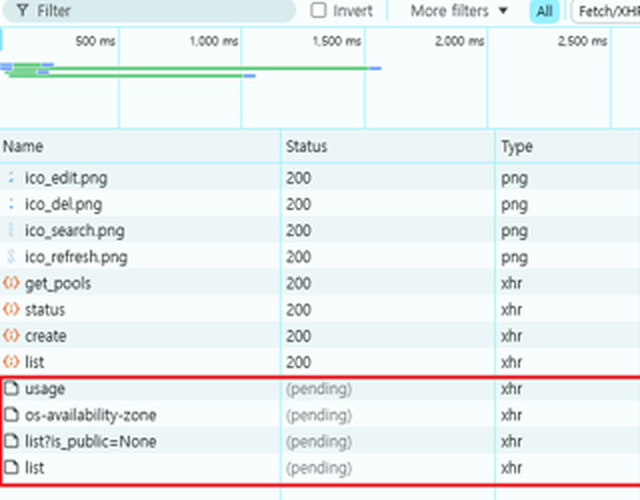
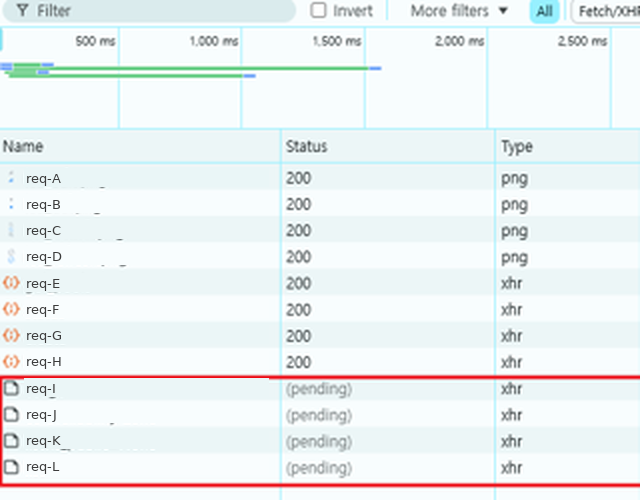
fix: stop claiming a growing queue and mask the request names

diff --git a/writing/slow-screens-6-polling-pileup.ko.html b/writing/slow-screens-6-polling-pileup.ko.html
@@ -3,7 +3,7 @@
 <head>
   <meta charset="UTF-8" />
   <meta name="viewport" content="width=device-width, initial-scale=1.0" />
-  <title>10초 걸리는 목록을 5초마다 다시 불렀습니다 | Kwanghun Lee</title>
+  <title>볼륨 생성 창이 안 열린 이유는 2개였습니다 | Kwanghun Lee</title>
   <link rel="preconnect" href="https://fonts.googleapis.com">
   <link rel="preconnect" href="https://fonts.gstatic.com" crossorigin>
   <link href="https://fonts.googleapis.com/css2?family=Inter:wght@400;500;600;700;800;900&family=Newsreader:opsz,wght@6..72,400;6..72,500;6..72,600;6..72,700&family=Great+Vibes&display=swap" rel="stylesheet">
@@ -16,7 +16,7 @@
   <!-- og:start -->
   <meta property="og:type" content="article" />
   <meta property="og:site_name" content="Kwanghun Lee" />
-  <meta property="og:title" content="10초 걸리는 목록을 5초마다 다시 불렀습니다 | Kwanghun Lee" />
+  <meta property="og:title" content="볼륨 생성 창이 안 열린 이유는 2개였습니다 | Kwanghun Lee" />
   <meta property="og:description" content="볼륨 생성 버튼을 눌러도 창이 안 열리고 로딩만 돌았습니다. 개발자 도구에는 요청 4건이 pending으로 멈춰 있었습니다. 목록 조회가 10초 넘게 걸리는데 화면은 5초마다 다시 부르고 있었고, 창이 열려 있는 동안에도 멈추지 않았습니다." />
   <meta property="og:image" content="https://lkhun9311.github.io/assets/og-cover.png" />
   <meta property="og:image:width" content="1200" />
@@ -26,7 +26,7 @@
   <meta property="og:locale:alternate" content="en_US" />
   <meta property="og:locale:alternate" content="ja_JP" />
   <meta name="twitter:card" content="summary_large_image" />
-  <meta name="twitter:title" content="10초 걸리는 목록을 5초마다 다시 불렀습니다 | Kwanghun Lee" />
+  <meta name="twitter:title" content="볼륨 생성 창이 안 열린 이유는 2개였습니다 | Kwanghun Lee" />
   <meta name="twitter:description" content="볼륨 생성 버튼을 눌러도 창이 안 열리고 로딩만 돌았습니다. 개발자 도구에는 요청 4건이 pending으로 멈춰 있었습니다. 목록 조회가 10초 넘게 걸리는데 화면은 5초마다 다시 부르고 있었고, 창이 열려 있는 동안에도 멈추지 않았습니다." />
   <meta name="twitter:image" content="https://lkhun9311.github.io/assets/og-cover.png" />
   <meta name="description" content="볼륨 생성 버튼을 눌러도 창이 안 열리고 로딩만 돌았습니다. 개발자 도구에는 요청 4건이 pending으로 멈춰 있었습니다. 목록 조회가 10초 넘게 걸리는데 화면은 5초마다 다시 부르고 있었고, 창이 열려 있는 동안에도 멈추지 않았습니다." />
@@ -72,7 +72,7 @@
         <div class="article-meta"><span class="source-tag company notranslate">회사 업무</span></div>
       </div>
               <section class="page-hero">
-          <h1>10초 걸리는 목록을 5초마다 다시 불렀습니다<br><span class="h1-sub">창이 열려 있는 동안에도 갱신이 계속 돌아 요청이 쌓였습니다. 사내 cloud 관리 console · 느린 화면 연작 ⑥</span></h1>
+          <h1>볼륨 생성 창이 안 열린 이유는 2개였습니다<br><span class="h1-sub">목록 조회가 10초 넘게 걸리는데 화면은 5초마다 다시 불렀습니다. 사내 cloud 관리 console · 느린 화면 연작 ⑥</span></h1>
           <p class="article-date">2026년 9월</p>
         </section>
 
@@ -122,6 +122,9 @@
           <li>브라우저 개발자 도구에 <strong>요청 4건이 <code>(pending)</code>으로 멈춰</strong> 있었습니다.</li>
           <li>고친 것은 <strong>창이 열려 있는 동안 갱신을 멈추는 것</strong>과
           <strong>고른 것만 그때 받아 오는 것</strong>입니다.</li>
+          <li>⚠ <strong>다만 「요청이 쌓였다」까지는 확인하지 못했습니다.</strong> 갈무리가 보여 주는 것은
+          그 시점에 <strong>끝나지 않은 요청이 4건</strong>이라는 것까지이고 창이 열리는 시간도
+          전후로 재지 않았습니다.</li>
           <li>그리고 <strong>이 「5초」가 backend 결정의 근거가 됐습니다.</strong>
           <a href="slow-screens-1-volume-list.ko.html">①편</a>에 나온 <code>refreshAfterWrite(5s)</code>의
           그 5초입니다.</li>
@@ -149,29 +152,34 @@
         <p>개발자 도구를 열어 보면 답이 그대로 있습니다.</p>
 
         <figure class="diagram">
-          <img src="../assets/figures/modal-pending-requests.png" alt="브라우저 개발자 도구의 네트워크 탭. 위쪽 8건은 상태 200으로 끝났고 아래쪽 4건은 usage, os-availability-zone, list?is_public=None, list로 상태가 모두 pending입니다." loading="lazy" width="640" height="500">
-          <figcaption>위쪽은 끝난 요청이고 <strong>아래 빨간 칸 4건이 <code>(pending)</code></strong>입니다.
-          창을 여는 데 필요한 요청들이 <strong>아직 답을 못 받고 있습니다.</strong>
-          제품 화면이 찍힌 오른쪽은 잘라 냈습니다.</figcaption>
+          <img src="../assets/figures/modal-pending-requests.png" alt="브라우저 개발자 도구의 네트워크 탭. 위쪽 8건은 상태 200으로 끝났고 아래쪽 4건은 상태가 pending입니다. 요청 이름은 전부 가렸습니다." loading="lazy" width="640" height="500">
+          <figcaption>갈무리 시점에 <strong>끝나지 않은 요청이 4건</strong> 보입니다(빨간 칸).
+          위쪽 8건은 200으로 끝났습니다. ⚠ 요청 이름은 사내 API 표면이라 <code>req-A</code>처럼 가렸고,
+          제품 화면이 찍힌 오른쪽은 잘라 냈습니다. 상태·종류·시각은 갈무리 그대로입니다.</figcaption>
         </figure>
 
-        <p><code>(pending)</code>은 <strong>보내 놓고 답을 기다리는 중</strong>이라는 뜻입니다.
-        창이 안 열린 것이 아니라 <strong>창이 열리기를 기다리며 필요한 것을 받는 중</strong>이었고,
-        그게 안 끝나고 있었습니다.</p>
+        <p><code>(pending)</code>은 <strong>아직 끝나지 않았다</strong>는 뜻입니다. 어디서 기다리는 중인지는
+        이 화면에 안 나옵니다. 브라우저 안에서 순서를 기다리는 중일 수도, 보내 놓고 답을 기다리는 중일
+        수도 있습니다.</p>
 
-        <p>⚠ <strong>이 갈무리가 보여 주는 것은 거기까지입니다.</strong> 멈춘 4건의 이름을 보면
-        쿼터 사용량·가용 영역·볼륨 타입 목록처럼 <strong>창이 필요로 하는 것들</strong>이고,
-        어느 것이 주기적 갱신이고 어느 것이 창의 요청인지 <strong>이 화면만으로는 가르지 못합니다.</strong>
-        아래에 적는 두 원인은 <strong>이 갈무리 하나가 아니라 코드와 사내 기록에서</strong> 나온 것입니다.</p>
+        <p>즉 <strong>클릭은 처리됐습니다.</strong> 창은 뜨기 시작했고 뜨는 데 필요한 것을 받는 중에
+        멈춰 있었습니다.</p>
+
+        <p>⚠ <strong>이 갈무리가 보여 주는 것은 거기까지입니다.</strong> 어느 것이 주기적 갱신이고 어느 것이
+        창의 요청인지, 각각이 언제 시작해 어디서 얼마를 기다렸는지는 <strong>이 화면만으로는 가르지
+        못합니다.</strong> 아래에 적는 두 원인은 <strong>이 갈무리 하나가 아니라 코드와 사내 기록에서</strong>
+        나온 것입니다.</p>
 
         <h2 id="원인-1">원인 ①: 안 쓸 것까지 미리 다 받아 왔습니다<a class="anchor" href="#원인-1" aria-label="이 절로 가는 링크">#</a></h2>
 
-        <p>버튼을 누르는 순간 화면이 받아 오기 시작한 것이 <strong>4가지</strong>였습니다.
-        볼륨 목록, 볼륨 스냅샷 목록, 볼륨 타입 목록, 이미지 목록.</p>
+        <p>창을 여는 과정에서 받아 오는 것이 <strong>4가지</strong>였습니다.
+        볼륨 목록, 볼륨 스냅샷 목록, 이미지 목록, 그리고 볼륨 타입 목록.
+        ⚠ 앞의 셋은 <strong>차례로</strong> 불렀고 볼륨 타입은 <strong>따로</strong> 불렀습니다.
+        한꺼번에 나란히 나간 것이 아닙니다.</p>
 
         <p>그런데 <strong>창을 여는 데 그 4가지가 다 필요하지는 않습니다.</strong>
         볼륨 소스로 「볼륨」을 고르면 볼륨 목록이 필요하고 「이미지」를 고르면 이미지 목록이 필요합니다.
-        <strong>고르기 전에는 아무것도 필요 없습니다.</strong></p>
+        <strong>고르기 전에는 볼륨·스냅샷·이미지 목록 중 어느 것도 필요하지 않습니다.</strong></p>
 
         <figure class="diagram">
           <div class="diagram-scroll" tabindex="0" role="region" aria-label="스크롤 가능한 도해">
@@ -212,7 +220,7 @@
               <text x="471" y="157" font-size="12" fill="#18121d" text-anchor="middle">소스를 고름</text>
               <path d="M536 153 H 570" fill="none" stroke="#4f5bd5" stroke-width="2" marker-end="url(#of-arB)"/>
               <rect x="578" y="140" width="134" height="26" rx="4" fill="none" stroke="#4f5bd5" stroke-width="2"/>
-              <text x="645" y="157" font-size="12" fill="#4f5bd5" font-weight="700" text-anchor="middle">그 한 가지만</text>
+              <text x="645" y="157" font-size="12" fill="#4f5bd5" font-weight="700" text-anchor="middle">고른 것에 필요한 것만</text>
               <defs>
                 <marker id="of-arA" viewBox="0 0 10 10" refX="9" refY="5" markerWidth="6" markerHeight="6" orient="auto-start-reverse">
                   <path d="M0 0 L10 5 L0 10 z" fill="#d62976"/>
@@ -238,7 +246,8 @@
         그런데 그 갱신이 <strong>창이 열려 있는 동안에도 그대로 돌았습니다.</strong>
         멈추라고 한 곳이 없었으니까요.</p>
 
-        <p>그리고 그 전체 목록 조회는 <strong>10초 넘게</strong> 걸렸습니다.</p>
+        <p>그리고 그 전체 목록 조회는 <strong>10초 넘게</strong> 걸렸습니다.
+        그러면 앞의 것이 안 끝났는데 다음 것이 나갑니다.</p>
 
         <figure class="diagram">
           <div class="diagram-scroll" tabindex="0" role="region" aria-label="스크롤 가능한 도해">
@@ -246,8 +255,7 @@
               <title id="poll-t">10초 걸리는 요청을 5초마다 보낼 때 쌓이는 모양</title>
               <desc id="poll-d">가로축이 시간입니다. 위 카드는 응답이 5초 안에 끝나는 경우로, 다음 요청이
               나갈 때 앞의 것이 이미 끝나 있어 한 번에 하나만 떠 있습니다. 아래 카드는 응답이 10초 넘게
-              걸리는 경우로, 5초마다 새 요청이 나가는 동안 앞의 것이 아직 안 끝나 겹치는 구간이 계속
-              늘어납니다.</desc>
+              걸리는 경우로, 5초마다 새 요청이 나가는 동안 앞의 것이 아직 안 끝나 두 건이 겹쳐 있습니다.</desc>
 
               <rect x="0" y="0" width="720" height="88" rx="10" fill="rgba(79,91,213,0.06)"/>
               <text x="10" y="22" font-size="12" fill="#4f5bd5" font-weight="700">응답이 5초 안에 끝날 때</text>
@@ -266,18 +274,35 @@
               <path d="M148 128 V 190" stroke="#d62976" stroke-width="1" stroke-dasharray="3 3"/>
               <path d="M286 128 V 190" stroke="#d62976" stroke-width="1" stroke-dasharray="3 3"/>
               <path d="M424 128 V 190" stroke="#d62976" stroke-width="1" stroke-dasharray="3 3"/>
-              <text x="600" y="128" font-size="11.5" fill="#d62976" font-weight="700">겹침 · 계속 쌓임</text>
+              <text x="600" y="128" font-size="11.5" fill="#d62976" font-weight="700">겹침 · 동시에 2건</text>
             </svg>
           </div>
           <figcaption>가로가 시간이고 막대 하나가 요청 1건이 살아 있는 구간입니다.
           점선은 5초마다 새 요청이 나가는 시점입니다. 아래쪽에서는 막대가 겹칩니다.</figcaption>
         </figure>
 
-        <blockquote><p><strong>10초 걸리는 것을 5초마다 부르면 줄이 줄지 않습니다.</strong>
-        보내는 속도가 끝나는 속도보다 빠르면 남는 요청이 계속 늘어납니다.</p></blockquote>
+        <blockquote><p><strong>10초 걸리는 것을 5초마다 부르면 겹칩니다.</strong>
+        앞의 것이 안 끝났는데 다음 것이 나가니, 같은 요청이 동시에 두 건씩 떠 있게 됩니다.</p></blockquote>
 
-        <p>여기에 <strong>원인 ①이 얹힙니다.</strong> 창을 열려고 4가지를 한꺼번에 받아 오는데,
-        그 요청들이 이미 밀려 있는 줄 뒤에 섭니다. 그래서 창이 안 열립니다.</p>
+        <p>⚠ <strong>여기서 한 발 더 나가면 근거가 없어집니다.</strong> 「요청이 끝없이 쌓인다」가
+        되려면 2가지가 더 있어야 하는데 <strong>둘 다 이 기록으로 확인되지 않습니다.</strong></p>
+
+        <ul>
+          <li><strong>갱신이 고정 시계로 돌아야 합니다.</strong> 앞의 것이 끝난 뒤에 5초를 재는 구현이거나
+          아직 도는 중이면 건너뛰는 구현이면 겹치지 않습니다. 기록에 남은 것은 <code>usePolling</code>을
+          <strong>부르는 쪽</strong>이고 그 안이 어떻게 생겼는지는 없습니다.</li>
+          <li><strong>겹친 요청이 어딘가에서 한 줄로 서야 합니다.</strong> 그냥 나란히 나가면 동시에 떠 있는
+          수가 2건 근처에서 멈추고 계속 늘지 않습니다. 브라우저가 같은 서버로 여는 연결 수 상한이
+          그 자리일 수 있는데 <strong>확인하지 않았습니다.</strong></li>
+        </ul>
+
+        <p>그러니 이 글이 말할 수 있는 것은 <strong>겹친다</strong>까지입니다.
+        사내 기록은 이것을 「누적」이라고 적었고 저도 그때 그렇게 읽었습니다.
+        <strong>지금 다시 보면 그 낱말은 확인한 것보다 셉니다.</strong></p>
+
+        <p>그리고 같은 시점에 <strong>창을 열기 위한 요청도 함께 나갑니다.</strong> 원인 ①입니다.
+        ⚠ 그 요청들이 갱신 요청 뒤에서 기다렸다는 <strong>직접 증거는 없습니다.</strong>
+        갈무리에는 각 요청이 언제 시작했는지도, 어디서 얼마를 기다렸는지도 안 나옵니다.</p>
 
         <p>⚠ <strong>브라우저가 같은 서버로 동시에 열 수 있는 연결 수에도 상한이 있습니다.</strong>
         줄이 길어지면 그 상한에도 걸릴 수 있는데 <strong>이 글은 그것까지 확인하지 않았습니다.</strong>
@@ -297,6 +322,10 @@ usePolling({
   pollingCondition: isLoadingDataExist &amp;&amp; !isAnyDialogOpen,
 });</code></pre>
 
+        <p>⚠ 이 조건이 막는 것은 <strong>다음 갱신이 나가는 것</strong>입니다. 이미 나가 있는 요청을
+        취소하지는 않습니다. 그리고 <code>openDialogs</code>가 클릭 직후에 참이 되는지, 데이터를 다 받은
+        뒤에 참이 되는지는 <strong>부르는 쪽 코드만으로는 알 수 없습니다.</strong></p>
+
         <p><strong>둘. 미리 받지 않고 고를 때 받습니다.</strong> 볼륨 소스에서 「스냅샷」을 고르면
         그때 스냅샷 목록만 받아 옵니다. 이미 받아 둔 것은 다시 받지 않습니다.</p>
 
@@ -309,7 +338,9 @@ usePolling({
   ...
 };</code></pre>
 
-        <p>필요할 때 받아 오는 이 방식을 <strong>lazy loading</strong>이라고 합니다.</p>
+        <p>필요할 때 받아 오는 이 방식을 <strong>lazy loading</strong>이라고 합니다.
+        ⚠ 고른 값에 따라 요청이 <strong>꼭 1건인 것은 아닙니다.</strong> 「이미지」나 「빈 볼륨」을 고르면
+        볼륨 타입 목록도 같이 필요해서 한 번 더 나갑니다.</p>
 
         <h2 id="부수-수정">덤: 목록을 못 받아도 선택지는 보이게<a class="anchor" href="#부수-수정" aria-label="이 절로 가는 링크">#</a></h2>
 
@@ -319,8 +350,9 @@ usePolling({
         <p>선택지는 볼륨·스냅샷·이미지·빈 볼륨 넷으로 정해져 있습니다. 서버에 물어볼 것이 아닙니다.
         고정된 배열로 바꿨습니다.</p>
 
-        <blockquote><p><strong>바뀌지 않는 것을 서버에서 받아 오면 서버가 죽을 때 같이 죽습니다.</strong>
-        이제 목록을 못 받아도 <strong>선택지는 보이고</strong>, 못 받은 것은 그 항목에서만 드러납니다.</p></blockquote>
+        <blockquote><p><strong>바뀌지 않는 값을 서버에서 받아 오면 그 호출이 실패했을 때 화면도 같이
+        못 씁니다.</strong> 이제 목록을 못 받아도 <strong>선택지는 보이고</strong>, 못 받은 것은
+        그 항목에서만 드러납니다.</p></blockquote>
 
         <h2 id="5초">이 5초가 backend 결정의 근거가 됐습니다<a class="anchor" href="#5초" aria-label="이 절로 가는 링크">#</a></h2>
 
@@ -328,7 +360,12 @@ usePolling({
         <a href="slow-screens-1-volume-list.ko.html">①편</a>에 나온 <code>refreshAfterWrite(5s)</code>입니다.</p>
 
         <p><strong>그 5초가 여기서 왔습니다.</strong> 화면이 5초마다 목록을 다시 부르고 있으니,
-        cache가 그 주기 안에서만 낡으면 사용자는 차이를 못 느낍니다. 팀에서 그렇게 합의했습니다.</p>
+        cache 갱신을 시작하는 기준도 그 주기에 맞추자는 것이었습니다. 팀에서 그렇게 합의했습니다.</p>
+
+        <p>⚠ <strong>그것이 「5초 안에 반드시 최신이 된다」는 뜻은 아닙니다.</strong>
+        <a href="slow-screens-1-volume-list.ko.html">①편</a>에 적었듯 <code>refreshAfterWrite</code>는
+        상한이 아니라 <strong>갱신을 시작하는 조건</strong>이고 아무도 안 찾으면 갱신도 안 일어납니다.
+        여기서 정한 것은 <strong>주기를 어디에 맞출까</strong>였지 낡음의 천장이 아니었습니다.</p>
 
         <blockquote><p>프런트의 갱신 주기가 backend의 <strong>낡음 허용치</strong>를 정했습니다.
         따로 정할 수 있는 값이 아니라 <strong>한쪽이 다른 쪽의 근거</strong>였습니다.</p></blockquote>
@@ -380,14 +417,14 @@ usePolling({
         <p>정리하면 이렇습니다.</p>
 
         <ul>
-          <li><strong>보내는 속도가 끝나는 속도보다 빠르면 줄이 자랍니다.</strong> polling 주기를 정할 때
-          <strong>가장 느린 응답</strong>을 같이 봐야 하는 이유입니다.</li>
+          <li><strong>주기를 정할 때는 가장 느린 응답을 같이 봐야 합니다.</strong> 10초 걸리는 것을
+          5초마다 부르면 같은 요청이 겹칩니다.</li>
           <li><strong>polling에는 멈추는 조건이 필요합니다.</strong> 화면이 앞에 없거나 창이 열려 있으면
           안 불러도 됩니다.</li>
-          <li><strong>미리 받아 두는 것은 공짜가 아닙니다.</strong> 그 요청도 같은 줄에 섭니다.</li>
-          <li><strong>바뀌지 않는 선택지는 서버에 묻지 않습니다.</strong> 물으면 서버가 죽을 때 같이 죽습니다.</li>
-          <li><strong>한쪽 수치가 다른 쪽 결정의 근거가 됩니다.</strong> 프런트의 5초가 backend의
-          낡음 허용치를 정했습니다.</li>
+          <li><strong>미리 받아 두는 것은 공짜가 아니고 바뀌지 않는 선택지는 서버에 묻지 않습니다.</strong>
+          앞의 것은 같은 시점에 요청을 늘리고 뒤의 것은 서버가 죽을 때 같이 못 씁니다.</li>
+          <li><strong>한쪽 수치가 다른 쪽 결정의 근거가 됩니다.</strong> 프런트의 5초가 backend cache의
+          갱신 주기를 맞추는 기준이 됐습니다.</li>
         </ul>
 
         <p>마지막으로 한 줄만 남긴다면 이겁니다.
